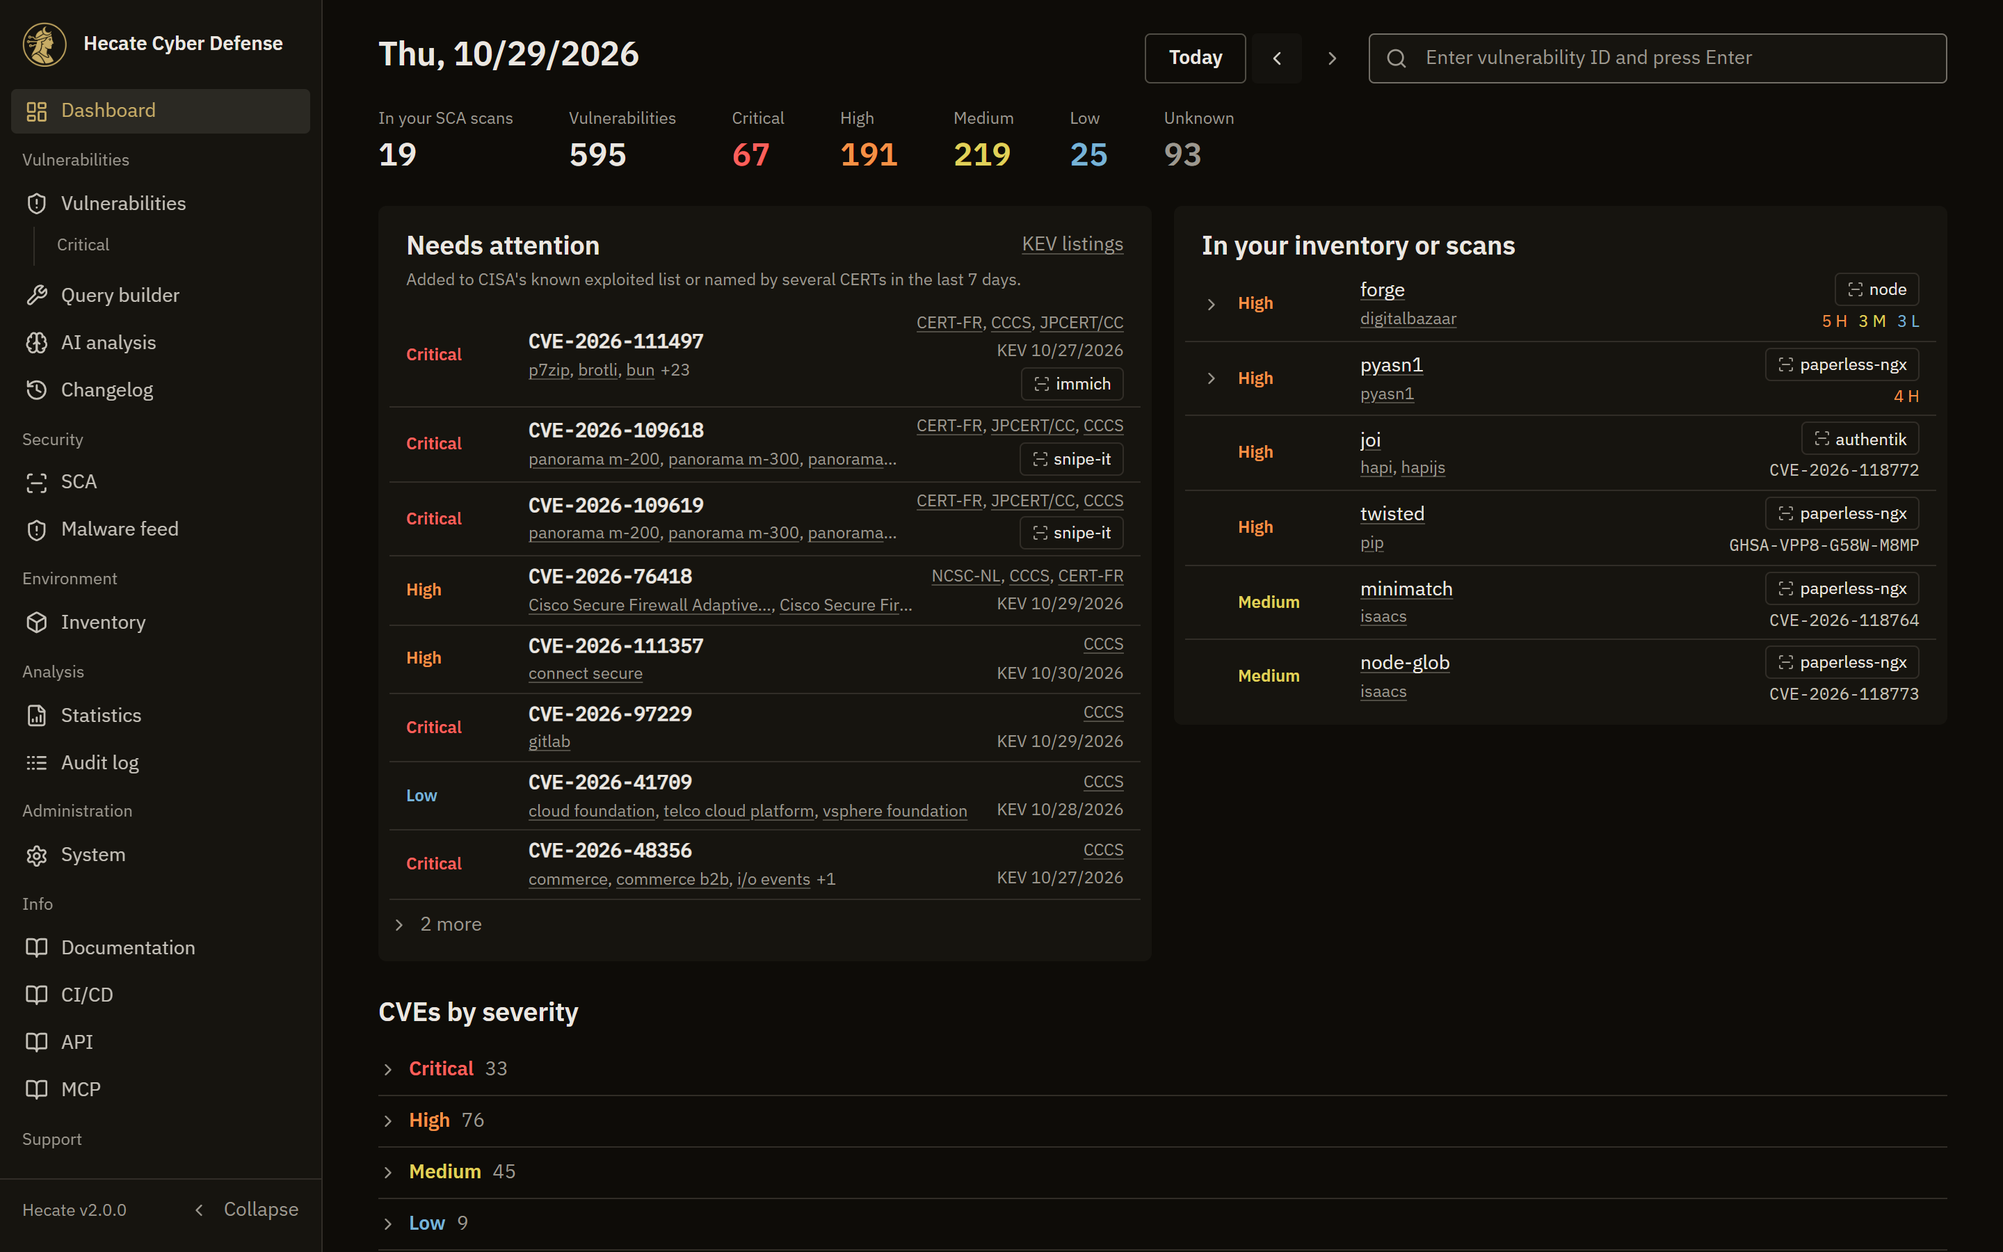
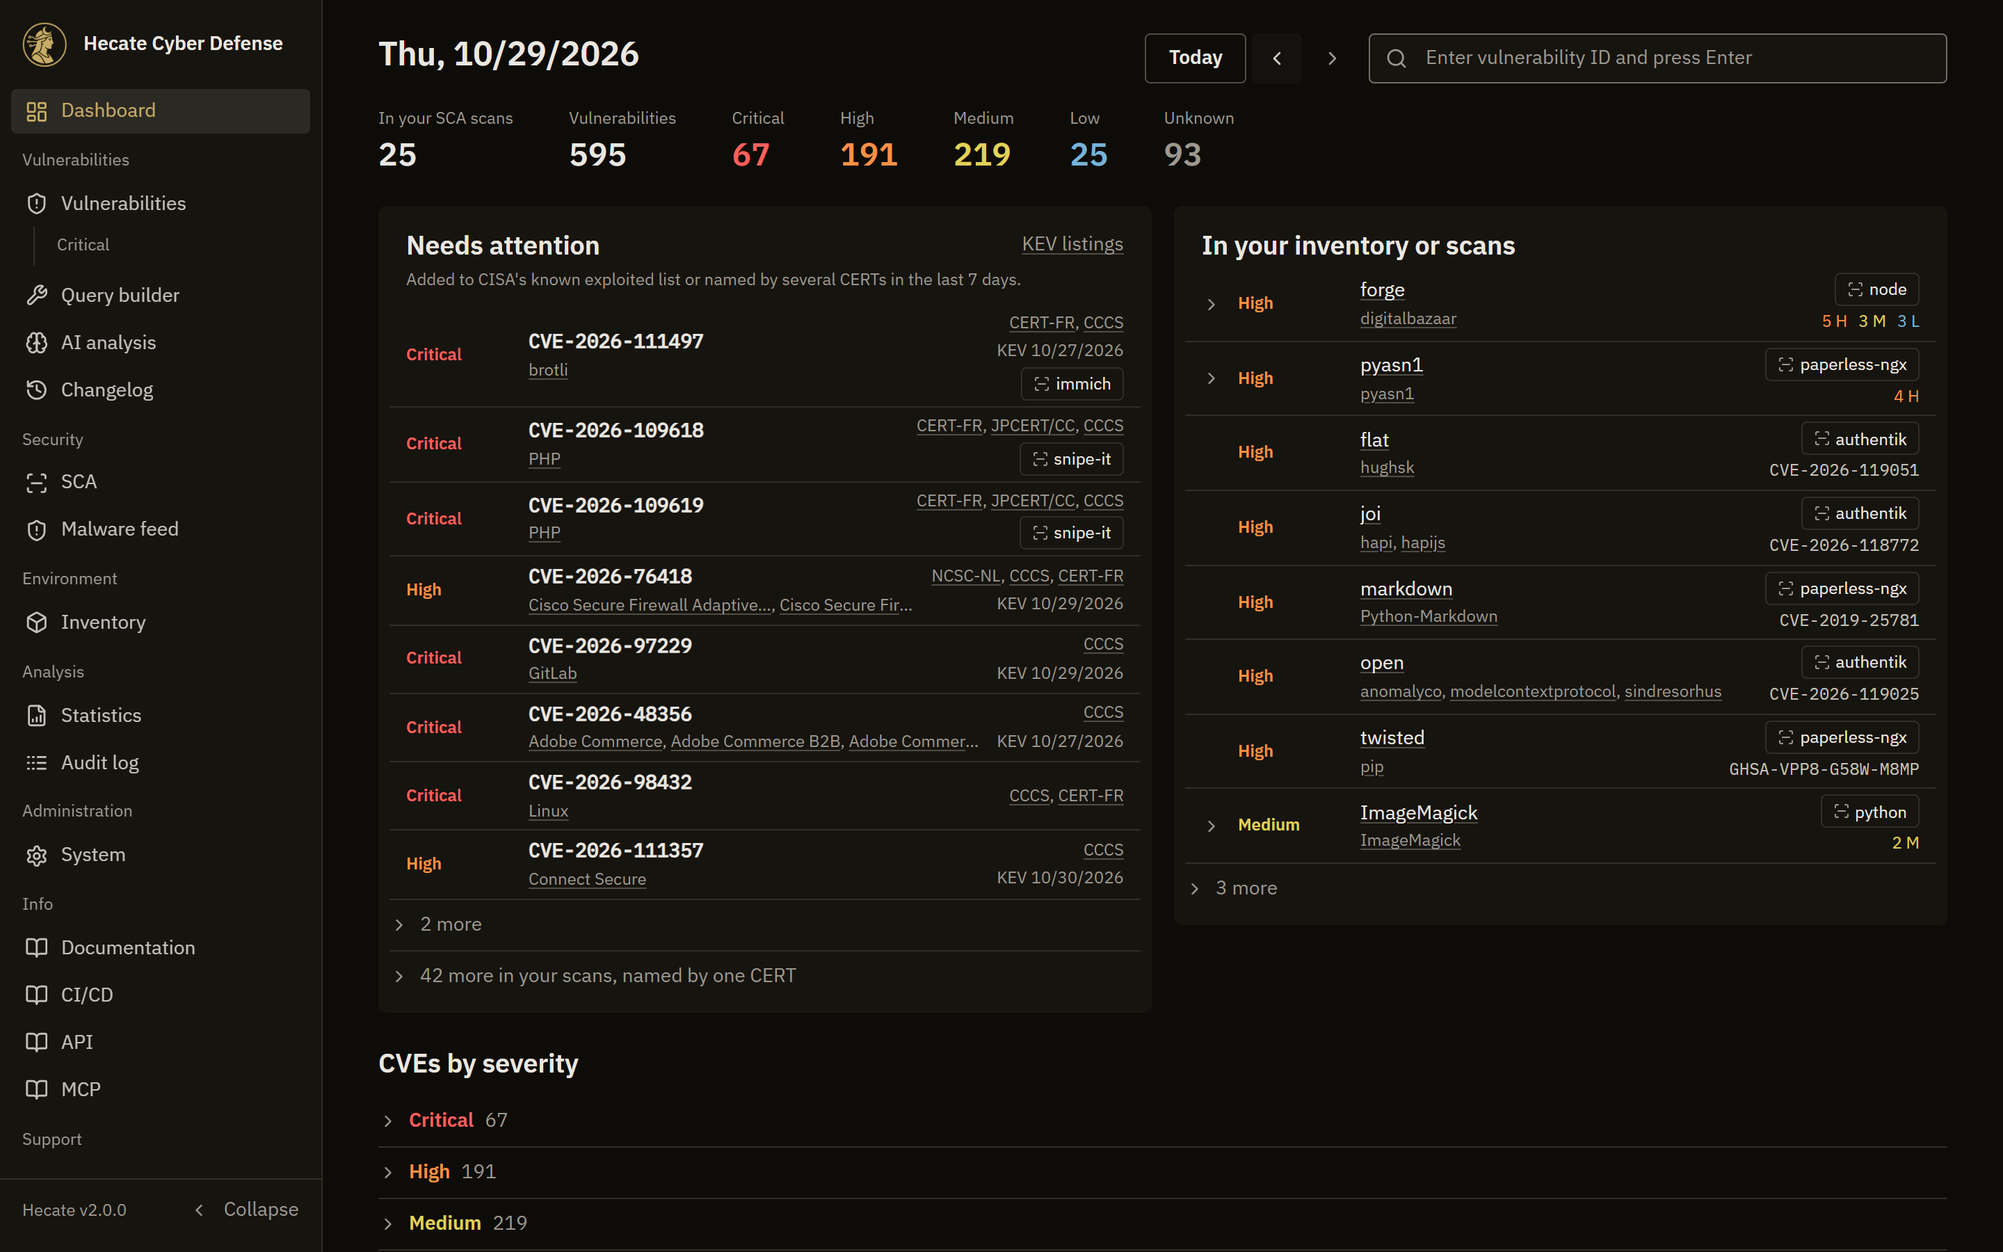
docs: document the CERT page
Adds a guide page and screenshot, and updates the dashboard guide, the API table and the changelog.

diff --git a/CHANGELOG.md b/CHANGELOG.md
@@ -21,8 +21,9 @@ and this project adheres to [Semantic Versioning](https://semver.org/spec/v2.0.0
 - `cleanAdvisoryText()` and `formatEcosystemName()` in `frontend/src/utils/advisoryText.ts`: display-only cleanup of OSV boilerplate and registry-qualified ecosystem names.
 - API tokens with scopes on System → Access Control: `scan:submit` opens `POST /api/v1/scans`, `inventory:report` opens `POST /api/v1/inventory/report`. Each token has a name and an optional expiry, is sent as `X-API-Key`, is shown once and stored only as a hash, and can be revoked without touching the others. Managing tokens needs `SYSTEM_PASSWORD` and answers `403` without it. Creating and revoking appear in the audit log.
 - `SCA_SCANNER_SECRET`: shared secret between the backend and the scanner sidecar, sent as `X-Scanner-Secret`. Once set, every sidecar route except `/health` needs it. It is needed as soon as anything but the backend can reach the sidecar, and on another host it also needs TLS in front. Unset, the sidecar behaves as before and logs a warning at startup.
-- Dashboard: a **Needs attention** panel shows what was added to CISA KEV or named by at least two CERTs in the last seven days, and what one CERT named if it is in your stack. Your stack comes first, and each row links to the advisories behind it. It does not depend on the selected day. Backed by `GET /api/v1/stats/attention`.
+- Dashboard: a **Needs attention** panel shows what was added to CISA KEV or named by at least two CERTs in the last seven days, and what one CERT named if it affects your inventory. Your stack comes first, each row links to the advisories behind it, and scan findings that only one CERT named fold away per product. It does not depend on the selected day. Backed by `GET /api/v1/stats/attention`.
 - CERT advisory feeds: a new job, `cert_feeds_sync`, reads CERT-FR, CERT-EU, NCSC-NL, CCCS and JPCERT/CC every two hours into the `cert_advisories` collection. `CERT_FEEDS_EXTRA` adds your own feeds as `Name|URL` pairs, for example CERT.at. Start it from System → Data, `POST /api/v1/sync/trigger/cert-feeds` or `sync-cert`. An item that names no CVE has its advisory page read once, on the feed's own host. CISA's advisory feed is not included because it refuses Hecate's client; the KEV catalogue is unaffected.
+- CERT page (`/cert`, sidebar group Security): what national CERTs warn about, with advisories that share a CVE merged into one topic. Rows show the worst severity, products, reporting CERTs and your stack; they fold open to every CVE and advisory. Filters cover search, CERT, severity, period and your stack. Advisories of 20 or more CVEs are listed as round-ups and not merged. Backed by `GET /api/v1/stats/cert-advisories`.
 - Inventory change history: `GET /api/v1/inventory/history` and `GET /api/v1/inventory/{id}/history` record what changed, from where (web, report, MCP, restore) and who did it, also for deleted items.
 - Inventory version reports: `POST /api/v1/inventory/report` lets a pipeline record the deployed version for up to 200 entries. An entry has to identify exactly one item; `ambiguous` and `not_found` change nothing and do not stop the batch, and reports never create items.
 - Inventory: the latest release of a cycle from endoflife.date is offered as a one-click `Set to`. It is never applied automatically, because a version nobody deployed would clear real CVE matches.

diff --git a/docs/changelog.md b/docs/changelog.md
@@ -27,8 +27,9 @@ generated from it on every semver tag. The format follows
 - `cleanAdvisoryText()` and `formatEcosystemName()` in `frontend/src/utils/advisoryText.ts`: display-only cleanup of OSV boilerplate and registry-qualified ecosystem names.
 - API tokens with scopes on System → Access Control: `scan:submit` opens `POST /api/v1/scans`, `inventory:report` opens `POST /api/v1/inventory/report`. Each token has a name and an optional expiry, is sent as `X-API-Key`, is shown once and stored only as a hash, and can be revoked without touching the others. Managing tokens needs `SYSTEM_PASSWORD` and answers `403` without it. Creating and revoking appear in the audit log.
 - `SCA_SCANNER_SECRET`: shared secret between the backend and the scanner sidecar, sent as `X-Scanner-Secret`. Once set, every sidecar route except `/health` needs it. It is needed as soon as anything but the backend can reach the sidecar, and on another host it also needs TLS in front. Unset, the sidecar behaves as before and logs a warning at startup.
-- Dashboard: a **Needs attention** panel shows what was added to CISA KEV or named by at least two CERTs in the last seven days, and what one CERT named if it is in your stack. Your stack comes first, and each row links to the advisories behind it. It does not depend on the selected day. Backed by `GET /api/v1/stats/attention`.
+- Dashboard: a **Needs attention** panel shows what was added to CISA KEV or named by at least two CERTs in the last seven days, and what one CERT named if it affects your inventory. Your stack comes first, each row links to the advisories behind it, and scan findings that only one CERT named fold away per product. It does not depend on the selected day. Backed by `GET /api/v1/stats/attention`.
 - CERT advisory feeds: a new job, `cert_feeds_sync`, reads CERT-FR, CERT-EU, NCSC-NL, CCCS and JPCERT/CC every two hours into the `cert_advisories` collection. `CERT_FEEDS_EXTRA` adds your own feeds as `Name|URL` pairs, for example CERT.at. Start it from System → Data, `POST /api/v1/sync/trigger/cert-feeds` or `sync-cert`. An item that names no CVE has its advisory page read once, on the feed's own host. CISA's advisory feed is not included because it refuses Hecate's client; the KEV catalogue is unaffected.
+- CERT page (`/cert`, sidebar group Security): what national CERTs warn about, with advisories that share a CVE merged into one topic. Rows show the worst severity, products, reporting CERTs and your stack; they fold open to every CVE and advisory. Filters cover search, CERT, severity, period and your stack. Advisories of 20 or more CVEs are listed as round-ups and not merged. Backed by `GET /api/v1/stats/cert-advisories`.
 - Inventory change history: `GET /api/v1/inventory/history` and `GET /api/v1/inventory/{id}/history` record what changed, from where (web, report, MCP, restore) and who did it, also for deleted items.
 - Inventory version reports: `POST /api/v1/inventory/report` lets a pipeline record the deployed version for up to 200 entries. An entry has to identify exactly one item; `ambiguous` and `not_found` change nothing and do not stop the batch, and reports never create items.
 - Inventory: the latest release of a cycle from endoflife.date is offered as a one-click `Set to`. It is never applied automatically, because a version nobody deployed would clear real CVE matches.

diff --git a/frontend/README.md b/frontend/README.md
@@ -40,6 +40,7 @@ src/
 │                                  server-paginated)
 ├── views/                       Page components (17 views)
 │   ├── DashboardPage.tsx        Home page: daily triage and latest findings
+│   ├── CertPage.tsx             CERT advisories merged into topics
 │   ├── VulnerabilityListPage.tsx
 │   │                            Paginated list with filters (incl. advanced filters)
 │   ├── VulnerabilityDetailPage.tsx
@@ -173,6 +174,7 @@ src/
 | Route | Component | Description |
 | --- | --- | --- |
 | `/` | `DashboardPage` | Daily triage: needs attention, products in your inventory or scans, the day's CVEs and latest findings, real-time refresh via SSE |
+| `/cert` | `CertPage` | CERT advisories merged into topics through shared CVEs, with filters and a list of round-ups |
 | `/vulnerabilities` | `VulnerabilityListPage` | Paginated list with full-text, vendor, product, version filters and an advanced filter set (severity, CVSS vector, EPSS, CWE, sources, time range). Three-way search-mode pill above the input: **Keyword** (full-text), **DQL** (existing query syntax), **Regex** (Lucene `regexp` over a curated field set — summary, title, vendors, products, aliases, ID, versions, references, CWEs; keep `REGEX_SEARCH_FIELDS` here in sync with the backend tuple in `vulnerability_service.py`). Saved searches preserve the originating mode via `queryMode` + `regexQuery`. Clicking a version chip on a row appends the vendor and product slugs alongside the version and searches by range coverage (`affectedVersion:`); `representativeVersionInRange` (`utils/versionQuery.ts`) resolves a range-string chip (`>= 7.0.0, < 7.0.2`, `4.7 ≤4.7.30`) to a concrete in-range version first, and only falls back to a literal `product_versions:` term when there is neither a vendor/product to pin nor a usable version. |
 | `/vulnerability/:vulnId` | `VulnerabilityDetailPage` | Detail view with tabs (CWE / CAPEC / references / affected products / **Attack Path** with Mermaid graph + optional AI narrative / AI analysis / change history / raw), refresh dropdown (incl. OSV). Below the summary it renders an **Affected in your environment** callout (inventory matches) and a red **Affected in your scans** callout (`affectedScanTargets` — SCA matches for this CVE/aliases, each row linking to the covering scan; `matchType` is either a confirmed `finding` or an `sbom` hit where the package is in the target's latest SBOM at an affected version but the scan predates the advisory, tagged *in SBOM · rescan to confirm*). The Attack Path tab is lazy-fetched: the backend always serves the deterministic graph; the AI narrative is optional via the *Generate scenario narrative* button (gated by `aiEnabled`). |
 | `/query-builder` | `QueryBuilderPage` | Interactive DQL editor with field browser and aggregations |

diff --git a/docs/guide/cert.md b/docs/guide/cert.md
@@ -1,0 +1,39 @@
+# CERT advisories
+
+The **CERT** page (`/cert`, sidebar group **Security**) shows what national CERTs are warning about, in one list. Hecate reads their public feeds, and advisories that share a CVE are merged into one topic, so the same flaw reported by three CERTs is one row and not three.
+
+Where the dashboard's [Needs attention](dashboard.md#needs-attention) panel answers *what should I look at now*, this page is the full picture behind it.
+
+![The CERT page with the topic list, filters and a row folded open](../img/hecate-cert.png)
+
+## Topics
+
+A topic is every advisory connected through a shared CVE. If one CERT names two CVEs of a flaw and another names only the second, both end up in the same topic.
+
+Each row shows:
+
+- the worst severity among its CVEs
+- the affected products and the first CVE IDs, taken from Hecate's own data because the feeds' titles come in several languages
+- the CERTs that reported it, and the date of the newest advisory
+- an **Exploited** tag if any of its CVEs is known to be exploited
+- the same inventory and scan tags as on the dashboard
+
+Click a row to fold it open. It lists every CVE with its severity, product, CVSS and EPSS, marks recent KEV listings, and links to each advisory in its original language. A CVE a CERT named before Hecate ingested it reads *Not in Hecate yet*.
+
+Topics that touch your stack come first, then those most CERTs agree on, then by severity and date. "Your stack" here means confirmed: an inventory match from the [version-aware matcher](inventory.md#how-matching-works) or a finding in your latest scans. A package that only shares a product's name shows a tag but does not move the row up.
+
+## Filters
+
+Search covers products, vendors, CVE IDs and advisory titles. You can also narrow the list to one CERT, one severity or **Only my stack**, and pick the last 7, 30 or 90 days; the page remembers that choice.
+
+Feeds only offer their latest entries, so history builds up from the day Hecate starts reading them. A 90-day view fills in over time.
+
+## Round-ups
+
+An advisory that names 20 or more CVEs, such as a Linux distribution's kernel batch or a browser release, is listed under **Round-ups** and not merged. Otherwise a single shared CVE would tie unrelated topics together. Each entry links to the advisory, shows its size, and tells you how many of its CVEs are findings in your latest scans.
+
+## Where the data comes from
+
+The feeds, how to add your own CERT with `CERT_FEEDS_EXTRA` and which CERTs are left out are described under [CERT feeds](dashboard.md#cert-feeds). Advisories that name no CVE, in the feed or on their page, cannot be matched to anything and do not appear here.
+
+The same data is available from `GET /api/v1/stats/cert-advisories?days=30&tz=Europe/Vienna`.

diff --git a/docs/guide/dashboard.md b/docs/guide/dashboard.md
@@ -51,24 +51,29 @@ Dashboard simply offers it at the point where you discover something is missing.
 
 The *Needs attention* panel shows what is being exploited or warned about right now. A CVE appears
 here when, in the last seven days, it was added to CISA's Known Exploited Vulnerabilities catalogue
-or at least two national CERTs named it. A CVE that only one CERT named appears when it is also in
-your stack. The panel goes by those dates, not by publication: most of these are older CVEs, and a
+or at least two national CERTs named it. A CVE that only one CERT named gets a row when it affects
+your [inventory](inventory.md). The panel goes by those dates, not by publication: most of these are older CVEs, and a
 day view would never show them. It therefore stays the same when you step back through days, and it
 still appears on a day with no new CVEs.
 
-Anything confirmed in your [inventory](inventory.md) or in a package of your latest scans comes
-first and carries the same clickable tag as elsewhere on the page. The rest is ordered by how many
-signals it has, then by the newest listing. Each row shows the severity, the CVE and the product, and
+Anything confirmed in your inventory or found by your latest scans comes first and carries the same
+clickable tag as elsewhere on the page. The rest is ordered by how many signals it has, then by
+severity and the newest listing. The first eight rows show and the rest fold away. Each row shows the severity, the CVE and the product, and
 says why it is there: the CERTs that named it, each linking to its advisory, the day CISA listed it,
 and a **Ransomware** tag where CISA records known ransomware use. Hover the KEV date for CISA's
 remediation due date. **KEV listings** opens the catalogue additions in the
-[Vulnerabilities](vulnerabilities.md) view.
+[Vulnerabilities](vulnerabilities.md) view, and **CERT advisories** opens the
+[full overview](cert.md).
+
+Scan findings that only one CERT named do not get a row: a single round-up can name dozens of kernel
+CVEs that every container image carries, which is routine patching rather than an alarm. They fold
+away at the bottom of the panel, one row per product, and stay in your scan results as usual.
 
 The panel reloads whenever new data is ingested, and it is not shown when nothing qualifies.
 
 ### CERT feeds
 
-Hecate reads the public advisory feeds of CERT-FR, CERT-EU, NCSC-NL, the Canadian Centre for Cyber
+The feeds also power the [CERT](cert.md) page. Hecate reads the public advisory feeds of CERT-FR, CERT-EU, NCSC-NL, the Canadian Centre for Cyber
 Security and JPCERT/CC every two hours. To add your own national CERT, set `CERT_FEEDS_EXTRA` to
 comma-separated `Name|URL` pairs. Any RSS, RDF or Atom feed works:
 

diff --git a/README.md b/README.md
@@ -156,6 +156,7 @@ flowchart TB
 | | |
 | --- | --- |
 | **Needs attention** | Dashboard panel of what CISA KEV listed or several CERTs named this week, with anything in your stack first. Add your own CERT with `CERT_FEEDS_EXTRA`. |
+| **CERT overview** | Advisories from national CERTs merged into topics through shared CVEs, with your stack first and round-ups kept apart. |
 | **10-source ingestion** | EUVD, NVD, KEV, CPE, CWE, CAPEC, CIRCL, GHSA, OSV, CERT feeds — normalised into a single schema with priority-gated upserts and a 3-tier cache. |
 | **Active SCA scanning** | 10 scanners (Trivy, Grype, Syft, OSV, Hecate, Dockle, Dive, Semgrep, TruffleHog, DevSkim) for container images and source repos. |
 | **Supply-chain malware detection** | 35 heuristic rules informed by real attacks (Shai-Hulud, LiteLLM, Trivy v0.69.4, Glassworm, Telnyx, Axios, …) plus a continuous OSV MAL-* watcher that retroactively injects findings into the latest scan of every affected target. |
@@ -268,6 +269,7 @@ scanner/
 | Dashboard | Daily triage: *Needs attention*, the products that hit your inventory or scans, the day's CVEs and the latest findings, with real-time refresh via SSE. |
 | Vulnerability list | Paginated list with full-text, vendor, product, version filters and an advanced filter set (severity, CVSS vector, EPSS, CWE, sources, time range). |
 | Vulnerability detail | Tabs for CWE, CAPEC, references, affected products, **Attack Path** (Mermaid graph + optional AI narrative), AI analysis, change history, raw. |
+| CERT | Advisories from national CERTs merged into topics through shared CVEs, with filters and round-ups kept apart. |
 | Query builder | Interactive DQL editor with field browser and aggregations. |
 | AI analysis | Combined timeline of single, batch, and scan analyses. |
 | Stats | Trend charts, top vendors / products, severity distribution. |

diff --git a/docs/integrations/api.md b/docs/integrations/api.md
@@ -48,6 +48,7 @@ The table below covers the endpoints you will use most. It is a curated shortlis
 | `POST` | `/api/v1/vulnerabilities/lookup` | Find one record by ID; fetching a miss from upstream needs `X-System-Password` when it is set |
 | `GET` | `/api/v1/stats` | Aggregated database and severity statistics |
 | `GET` | `/api/v1/stats/attention` | CVEs added to CISA KEV or named by CERT feeds in the last `days` days (default 7, max 30), with inventory matches |
+| `GET` | `/api/v1/stats/cert-advisories` | CERT advisories of the last `days` days (default 30, max 90), merged into topics, plus round-ups |
 | `POST` | `/api/v1/scans` | Submit a scan (the CI/CD entry point, gated by `X-API-Key`) |
 | `GET` | `/api/v1/scans/{scanId}` | Scan status and severity summary |
 | `GET` | `/api/v1/scans/{scanId}/findings` | List the findings of a scan |

diff --git a/docs/guide/overview.md b/docs/guide/overview.md
@@ -53,6 +53,11 @@ guide that covers it.
     Keyword, DQL and regex modes, affected-version lookup, the visual field browser, and saved searches.
     → [Search & Query Builder](search.md)
 
+-   :material-bullhorn-outline: **CERT Advisories**
+
+    What national CERTs warn about, merged across advisories that share a CVE.
+    → [CERT Advisories](cert.md)
+
 -   :material-clipboard-list-outline: **Environment Inventory**
 
     Declare what you run; see exactly which CVEs touch each entry, plus its support / end-of-life status.
